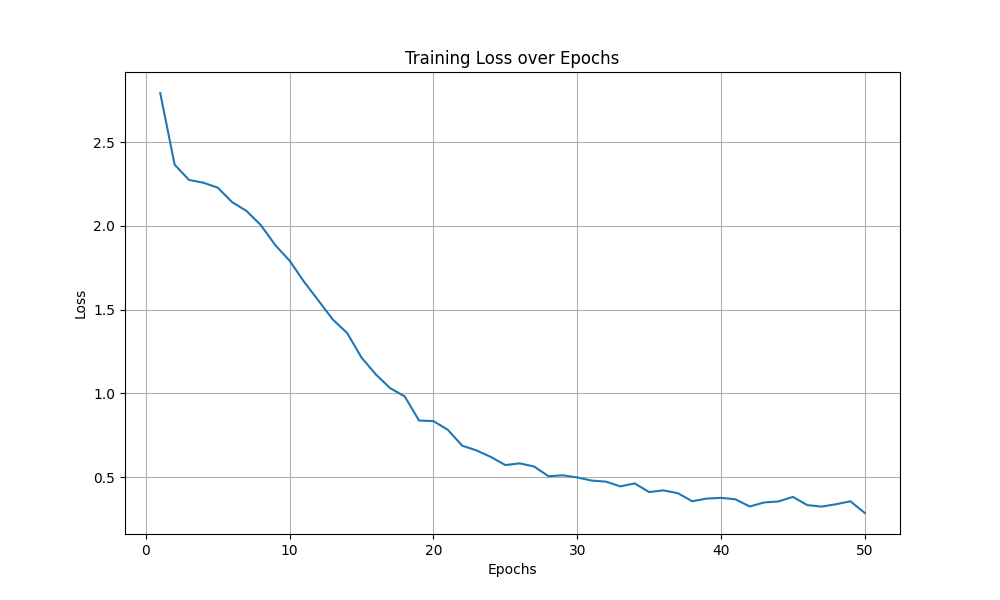
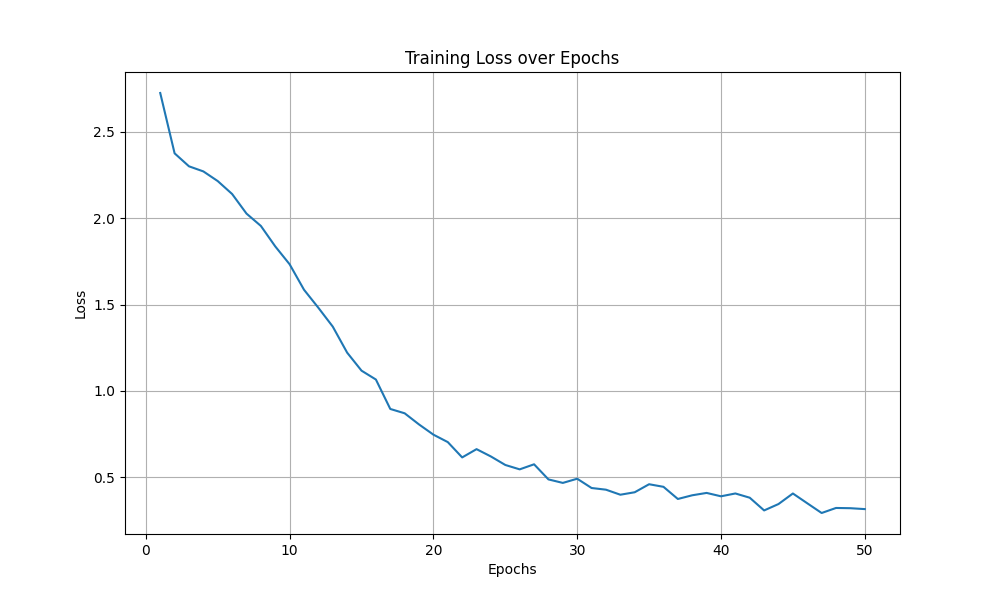
add link

diff --git a/src/checkpoint.py b/src/checkpoint.py
@@ -9,8 +9,7 @@ from datetime import datetime
 from src.config import Config, default_config
 from src.model import create_model
 
-
-def list_checkpoints(checkpoint_dir: str = None) -> list:
+def list_checkpoints(checkpoint_dir: str= None) -> list:
     """List all available checkpoints."""
     if checkpoint_dir is None:
         checkpoint_dir = default_config.checkpoint_dir
@@ -26,7 +25,7 @@ def list_checkpoints(checkpoint_dir: str = None) -> list:
     print(f"\nAvailable checkpoints in {checkpoint_dir}:")
     print("-" * 60)
     for cp in checkpoints:
-        size = cp.stat().st_size / (1024 * 1024)  # Size in MB
+        size = cp.stat().st_size / (1024 * 1024)
         mtime = datetime.fromtimestamp(cp.stat().st_mtime)
         print(f"{cp.name:30} {size:6.2f} MB  {mtime.strftime('%Y-%m-%d %H:%M:%S')}")
 
@@ -34,8 +33,8 @@ def list_checkpoints(checkpoint_dir: str = None) -> list:
 
 
 def load_best_model(
-        checkpoint_dir: str = None,
-        device: str = None
+    checkpoint_dir: str= None,
+    device: str = None
 ) -> Tuple[torch.nn.Module, Dict, Config]:
     """
     Load the best model from checkpoint directory.
@@ -60,7 +59,7 @@ def load_best_model(
     # Load config
     config = default_config
     if config_path.exists():
-        with open(config_path, 'rb') as f:
+        with open(config_path, "rb") as f:
             config = pickle.load(f)
 
     # Load vocabulary
@@ -70,7 +69,7 @@ def load_best_model(
     with open(vocab_path, 'rb') as f:
         vocab = pickle.load(f)
 
-    # Load model
+    # Load Model
     if not checkpoint_path.exists():
         raise FileNotFoundError(f"Best model not found at {checkpoint_path}")
 
@@ -87,36 +86,6 @@ def load_best_model(
         print(f"Epoch: {checkpoint['epoch']}, Loss: {checkpoint.get('loss', 'N/A')}")
 
     return model, vocab, config
-
-
-def load_latest_model(
-        checkpoint_dir: str = None,
-        device: str = None
-) -> Tuple[torch.nn.Module, Dict, Config]:
-    """
-    Load the latest model from checkpoint directory.
-
-    Args:
-        checkpoint_dir: Directory containing checkpoints
-        device: Device to load model on
-
-    Returns:
-        Tuple of (model, vocab, config)
-    """
-    if checkpoint_dir is None:
-        checkpoint_dir = default_config.checkpoint_dir
-
-    if device is None:
-        device = default_config.device
-
-    checkpoint_path = Path(checkpoint_dir) / "latest_model.pth"
-
-    if not checkpoint_path.exists():
-        # If latest doesn't exist, try best
-        return load_best_model(checkpoint_dir, device)
-
-    return load_model(str(checkpoint_path), device=device)
-
 
 def load_model(
         checkpoint_path: str,
@@ -181,3 +150,31 @@ def load_model(
         print(f"Epoch: {checkpoint['epoch']}, Loss: {checkpoint.get('loss', 'N/A')}")
 
     return model, vocab, config
+
+def load_latest_model(
+        checkpoint_dir: str = None,
+        device: str = None
+) -> Tuple[torch.nn.Module, Dict, Config]:
+    """
+    Load the latest model from checkpoint directory.
+
+    Args:
+        checkpoint_dir: Directory containing checkpoints
+        device: Device to load model on
+
+    Returns:
+        Tuple of (model, vocab, config)
+    """
+    if checkpoint_dir is None:
+        checkpoint_dir = default_config.checkpoint_dir
+
+    if device is None:
+        device = default_config.device
+
+    checkpoint_path = Path(checkpoint_dir) / "latest_model.pth"
+
+    if not checkpoint_path.exists():
+        # If latest doesn't exist, try best
+        return load_best_model(checkpoint_dir, device)
+
+    return load_model(str(checkpoint_path), device=device)

diff --git a/src/evaluate.py b/src/evaluate.py
@@ -6,26 +6,26 @@ from pathlib import Path
 from typing import Dict, List, Tuple, Optional
 
 from src.config import Config, default_config
-from src.utils import predict, inverse_vocab
+from src.utils import predict
 from src.model import create_model
 from src.train import train_model
 
 
 def load_model(
-        checkpoint_path: Optional[str] = None,
-        vocab_path: Optional[str] = None,
-        config: Optional[Config] = None
+    checkpoint_path: Optional[str] = None,
+    vocab_path: Optional[str] = None,
+    config: Optional[Config] = None
 ) -> Tuple[torch.nn.Module, Dict, Config]:
     """
-    Load a trained model and vocabulary.
+        Load a trained model and vocabulary.
 
-    Args:
-        checkpoint_path: Path to model checkpoint (if None, load best model)
-        vocab_path: Path to vocabulary file (if None, load from checkpoint dir)
-        config: Configuration object (if None, load from checkpoint)
+        Args:
+            checkpoint_path: Path to model checkpoint (if None, load best model)
+            vocab_path: Path to vocabulary file (if None, load from checkpoint dir)
+            config: Configuration object (if None, load from checkpoint)
 
-    Returns:
-        Tuple of (model, vocab, config)
+        Returns:
+            Tuple of (model, vocab, config)
     """
     if config is None:
         config = default_config
@@ -48,7 +48,7 @@ def load_model(
         raise FileNotFoundError(f"Vocabulary not found at {vocab_path}")
 
     # Load vocabulary
-    with open(vocab_path, 'rb') as f:
+    with open(vocab_path, "rb") as f:
         vocab = pickle.load(f)
 
     # Load checkpoint
@@ -62,36 +62,35 @@ def load_model(
     model = create_model(len(vocab), config)
     model.load_state_dict(checkpoint['model_state_dict'])
     model.to(config.device)
-    model.eval()  # Set to evaluation mode
+    model.eval()
 
     print(f"Model loaded from {checkpoint_path}")
-    if 'epoch' in checkpoint:
+    if "epoch" in checkpoint:
         print(f"Trained for {checkpoint['epoch']} epochs, Loss: {checkpoint.get('loss', 'N/A')}")
 
     return model, vocab, config
 
-
 def evaluate_model(
-        model: torch.nn.Module,
-        vocab: Dict[str, int],
-        test_questions: List[str],
-        expected_answers: List[str] = None,
-        threshold: float = None,
-        config: Config = None
+    model: torch.nn.Module,
+    vocab: Dict[str, int],
+    test_questions: List[str],
+    expected_answers: List[str] = None,
+    threshold: float = None,
+    config: Config = None,
 ) -> List[Tuple[str, str, float, str]]:
     """
-    Evaluate model on test questions.
+        Evaluate model on test questions.
 
-    Args:
-        model: Trained model
-        vocab: Vocabulary dictionary
-        test_questions: List of questions to test
-        expected_answers: List of expected answers (optional)
-        threshold: Probability threshold
-        config: Configuration object
+        Args:
+            model: Trained model
+            vocab: Vocabulary dictionary
+            test_questions: List of questions to test
+            expected_answers: List of expected answers (optional)
+            threshold: Probability threshold
+            config: Configuration object
 
-    Returns:
-        List of tuples (question, predicted_answer, probability, expected_answer)
+        Returns:
+            List of tuples (question, predicted_answer, probability, expected_answer)
     """
     if config is None:
         config = default_config
@@ -99,10 +98,10 @@ def evaluate_model(
     if threshold is None:
         threshold = config.threshold
 
-    model.eval()  # Set to evaluation mode
+    model.eval()
     results = []
 
-    with torch.no_grad():  # Disable gradient computation
+    with torch.no_grad():
         for i, question in enumerate(test_questions):
             predicted_word, probability = predict(
                 model, question, vocab, config, threshold
@@ -112,7 +111,6 @@ def evaluate_model(
             results.append((question, predicted_word, probability, expected))
 
     return results
-
 
 def print_evaluation_results(results: List[Tuple[str, str, float, str]]):
     """Pretty print evaluation results."""
@@ -138,7 +136,6 @@ def print_evaluation_results(results: List[Tuple[str, str, float, str]]):
         accuracy = correct / total * 100
         print(f"\nAccuracy: {accuracy:.2f}% ({correct}/{total})")
     print("=" * 80)
-
 
 def test_sample_questions(
         model: torch.nn.Module = None,